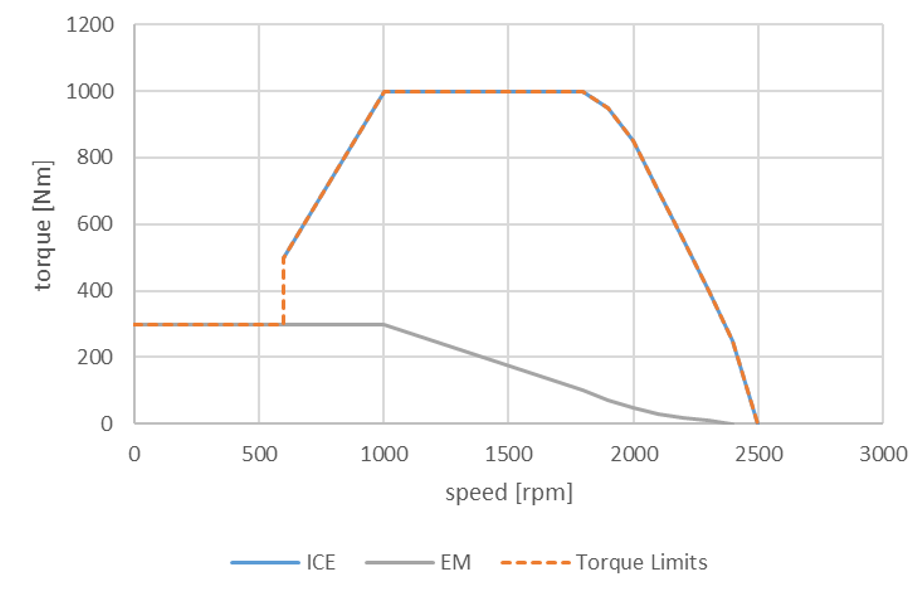
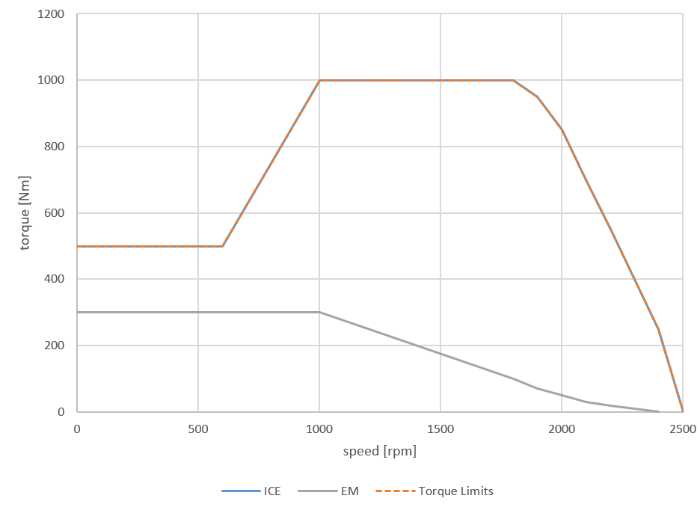
updating user manual, adding missing files

diff --git a/Documentation/User Manual/1-user-interface/F_VEH-Editor.md b/Documentation/User Manual/1-user-interface/F_VEH-Editor.md
@@ -166,9 +166,10 @@ However, it is possible that more than one electric machine is used at a certain
 
 The *Loss map EM ADC* can be used to consider the losses of a transmission step between drivetrain and electric machine or to consider losses of a summation gear. The loss map has the same format as for all other transmission components (see [Transmission Loss Map (.vtlm)](#transmission-loss-map-.vtlm)). For simplicity or if no such transmission step is used it is possible to enter the efficiency directly (i.e., "1" if no transmission step is used).
 
-In case of a P2.5 configuration (the electric motor is connected to an internal shaft of the tranmission) the transmission ratio for every single gear of the transmission has to be specified in the list to the right of the electric motor parameters.
+In case of a P2.5 configuration (the electric motor is connected to an internal shaft of the tranmission) the transmission ratio for every single gear of the transmission has to be specified in the list to the right of the electric motor parameters. The ratio is defeined as $n_\textrm{GBX,in} / n_\textrm{EM}$ in case of EM without additional ADC or $n_\textrm{GBX,in} / n_\textrm{ADC,out}$ in case of EM with additional ADC.
 
-For the electric energy storage multiple battery packs can be configured either in series or in parallel and the initial state of charge of the whole battery system can be defined.  For every entry of a battery pack the number of packs (count) in series and a stream identifier need to be specified. Battery packs on the same stream are connected in series (e.g., two different battery packs on stream number 1 are in series) while all streams are then connected in parallel (see [Battery Model](#foo) for details). This is only supported for batteries and **not** for SuperCaps.
+
+For the electric energy storage multiple battery packs can be configured either in series or in parallel and the initial state of charge of the whole battery system can be defined.  For every entry of a battery pack the number of packs (count) in series and a stream identifier need to be specified. Battery packs on the same stream are connected in series (e.g., two different battery packs on stream number 1 are in series) while all streams are then connected in parallel (see [Battery Model](#ress) for details). This is only supported for batteries and **not** for SuperCaps.
 
 **Double-click** an entry to edit.
 
@@ -185,20 +186,35 @@ In the REESS Dialog the battery file itself and how it is connected to the elect
 
 ![](pics/VehicleForm_TorqueLimits.png)
 
-On this tab different torque limits can be applied at the vehicle level. 
+On this tab different torque limits can be applied at the vehicle level. For details which limits are applicable and who the limits are applied in the simulation [see here](#torque-and-speed-limitations).
 
 First, the maximum torque of the ICE may be limited for certain gears (see [Engine Torque Limitations](#torque-and-speed-limitations)).
 In case that the gearbox' maximum torque is lower than the engine's maximum torque or to model certain features like Top-Torque (where in the highest gear more torque is available) it is possible to limit the engine's maximum torque depending on the engaged gear. 
 
 Next, the maximum available torque for the electric machine can be reduced at the vehicle level, both for propulsion and recuperation. The input file is the same as the maximum drive and maximum recuperation curve (see [Electric Motor Max Torque File](#electric-motor-max-torque-file-.vemp))
 
-Last, the overall propulsion of the vehicle (i.e., electric motor plus combustion engine) can be limited. The "Propulsion Torque Limit" curve limits the maximum effective torque at the gearbox input shaft over the input speed. This curve is added to the combustion engine's maximum torque curve (only positive values are allowed!). For details on the file format see [Vehicle Boosting Limits](#vehcle-boosing-limits-.vemp). The propulsion torque limit has to be provided from 0 rpm to the maximum speed of the combustion engine. In case of P3 or P4 configuration, the torque at the gearbox input shaft is calculated assuming that the electric motor does not contribute to propelling the vehicle, considering the increased losses in the transmission components inbetween. For P2.5 powertrain configurations no special calculations are necessary as this architecture is internally anyhow modelled as P2 architecture.
+Last, the overall propulsion of the vehicle (i.e., HEV Px, electric motor plus combustion engine) can be limited. The "Propulsion Torque Limit" curve limits the maximum effective torque at the gearbox input shaft over the input speed. This curve is added to the combustion engine's maximum torque curve (only positive values are allowed!). For details on the file format see [Vehicle Boosting Limits](#vehcle-boosing-limits-.vemp). The propulsion torque limit has to be provided from 0 rpm to the maximum speed of the combustion engine. In case of P3 or P4 configuration, the torque at the gearbox input shaft is calculated assuming that the electric motor does not contribute to propelling the vehicle, considering the increased losses in the transmission components inbetween. For P2.5 powertrain configurations no special calculations are necessary as this architecture is internally anyhow modelled as P2 architecture.
 
 ##Vehicle Editor -- ADAS Tab
 
 ![](pics/VehicleForm_ADAS.png)
 
 On the ADAS tab, the advanced driver assistant systems present in the vehicle can be selected.  See [ADAS - Engine Stop/Start](#advanced-driver-assistant-systems-engine-stopstart), [ADAS - EcoRoll](#advanced-driver-assistant-systems-eco-roll), and [ADAS - Predictive Cruise Control](#advanced-driver-assistant-systems-predictive-cruise-control)
+
+The following table describes which ADAS technology can be used and is supported for different powertrain architectures (X: supported, O: optional, -: not supported):
+
+| ADAS Technology \ Powertrain Architecture  | Conventional   | HEV   | PEV   |
+| ------------------------------------------ | -------------- | ----- | ----- |
+| Engine Stop/Start                          | X              | X     | -     |
+| EcoRoll Without Engine Stop                | X              | -     | -     |
+| EcoRoll with Engine Stop                   | X              | -     | -     |
+| Predictive Cruise Control                  | X              | X     | X     |
+| APT Gearbox EcoRoll Release Lockup Clutch  | O              | -     | -     |
+
+* Engine Stop/Start not allowed for PEV
+* EcoRoll for HEV always with ICE off
+* For PEV no clutch for disconnecting the EM present, thus no EcoRoll foreseen (very low drag of EM in any case)
+* Inputs for EcoRoll possible in GUI, but no effect in simulation
 
 
 ##Vehicle Editor -- PTO Tab

diff --git a/Documentation/User Manual/3-simulation-models/Electric_Motor.md b/Documentation/User Manual/3-simulation-models/Electric_Motor.md
@@ -8,7 +8,7 @@ The electric motor is modeled by basically 4 map files:
  - Drag curve (i.e., the motor is not energized) over motor speed
  - Continuous torque ($T_\textrm{cont}$)
  - Engine speed for continuous torqe ($n_\textrm{T,cont}$)
- - Overload torque ($T_\textrm{ovl})
+ - Overload torque ($T_\textrm{ovl}$)
  - Engine speed for overload torque  ($n_\textrm{T,ovl}$)
  - Maximum overload time ($t_\textrm{ovl}$)
 
@@ -63,7 +63,7 @@ $P_\textrm{el}(n_\textrm{em}, T_\textrm{em}) = \textrm{Delaunay}_\textrm{EM-Map}
 
 The electric machine can be overloaded for a certain period. In addition to the maximum drive and generation torque (which already is in overload condition) the mechanical power the electric machine can generate is required.
 
-The basic principal of the thermal de-rating is as follows: based on the continuous power and the angular velocity for the continuous power as well as the maximum overload time a thermal energy buffer is calculated. During the simulation the difference between the current losses in the electric machine and the losses at the continuous power operating point are integrated over time. If this value reaches the capacity of the thermal energy buffer the electric machine can only deliver the specified continuous power until the thermal energy buffer goes below a certain.
+The basic principal of the thermal de-rating is as follows: based on the continuous power and the angular velocity for the continuous power as well as the maximum overload time a thermal energy buffer is calculated. During the simulation the difference between the current losses in the electric machine and the losses at the continuous power operating point are integrated over time. If this value reaches the capacity of the thermal energy buffer the electric machine can only deliver the specified continuous power until the thermal energy buffer goes below a certain threshold.
 
 
 $E_\textrm{th,buf} = (P_\textrm{loss,ovl} - P_\textrm{loss,cont}) \cdot t_\textrm{ovl}$
@@ -79,5 +79,5 @@ $E_{\textrm{ovl,} i + 1} = E_{\textrm{ovl,} i} + (P_\textrm{loss, i} - P_\textrm
 $P_\textrm{loss, i} = T_\textrm{em, mech} \cdot n_\textrm{em} - P_\textrm{map, el}(T_\textrm{em, mech}, n_\textrm{em})$
 
 
-If $E_\textrm{ovl, i}$ reaches the overload capacity $E_\textrm{th,buf}$ the power of the electric machine is limited to the continuous power until $E_\textrm{ovl,i}$ goes below the overload capacity multiplied by a certain factor. Then the maximum torque is available again.
+If $E_\textrm{ovl, i}$ reaches the overload capacity $E_\textrm{th,buf}$ the power of the electric machine is limited to the continuous power until $E_\textrm{ovl,i}$ goes below the overload capacity multiplied by the thermal overload recovery factor. Then the maximum torque is available again.
 

diff --git a/Documentation/User Manual/1-user-interface/H1_HybridStrategyParams-Editor.md b/Documentation/User Manual/1-user-interface/H1_HybridStrategyParams-Editor.md
@@ -1,0 +1,50 @@
+##Hybrid Strategy Parameters Editor
+
+
+![](pics/HybridStrategyParams.png)
+
+###Description
+
+
+The [Hybrid Strategy Parameters File (.vhctl)](#hybrid-strategy-parameters-file-.vhctl) defines all parameters used by the [Hybrid Control Strategy](#hybrid-control-strategy) to evaluate the best option for splitting the demanded torque between electric motor and combustion engine.
+
+###Strategy Parameters
+
+The hybrid control strategy evaluates different allocations of torque to the electric motor and different gears and calculates the following cost function:
+
+$C = \sum_{i \in  \textrm{Fuels}}{FC_{i} \cdot NCV_{i} \cdot dt} + f_{\textrm{equiv}} \cdot (P_\textrm{Bat} \cdot dt + C_{\textrm{Pen1}}) \cdot f_{SoC} + C_{\textrm{Pen2}}$
+
+$f_\textrm{SoC} = 1 - \left(\frac{\textrm{SoC} - \textrm{TargetSoC}}{0.5 \cdot (\textrm{SoC}_\textrm{max} - \textrm{SoC}_{min}}  \right)^e + C_\textrm{SoC}$
+
+The parameters for the cost function can be defined in the hybrid strategy file.
+
+Evquivalence Factor Discharge
+:   $f_{\textrm{equiv}}$ in case the battery is discharged
+
+Evquivalence Factor Charge
+:   $f_{\textrm{equiv}}$ in case the battery is charged
+
+Min SoC
+:   $\textrm{SoC}_\textrm{min}$
+
+Max SoC
+:   $\textrm{SoC}_\textrm{max}$
+
+Target SoC
+:   $\textrm{TargetSoC}$
+
+Min ICE On Time
+:   In case the ICE was turned on, it cannot be turned of for this period of time
+
+Aux Buffer Time 
+:   In case electric auxiliaries are connected to the high-voltage system, reserve a certain amount of energy in the battery to supply the auxiliaries for this period of time.
+
+Aux Buffer Charge Time
+:   In case electric auxiliaries are connected to the high-voltage system and the reserved energy for the auxiliaries is used, re-charge the "auxiliaries buffer" in within this period of time.
+
+ICE Start penalty factor
+:   Penalty added to the cost function in case the ICE needs to be turned on
+
+Cost Factor SoC Exponent
+:   Exponent $e$ in the cost function
+

diff --git a/Documentation/User Manual/3-simulation-models/ADAS_EcoRoll.md b/Documentation/User Manual/3-simulation-models/ADAS_EcoRoll.md
@@ -184,8 +184,9 @@ If the vehicle enters a potential PCC section, the following calculations are pe
 1. Current vehicle position: $x$
 2. Position in the cycle where the PCC event shall be finished: $x_{end} = min(x + d_{preview}, x_{end, max})$
 3. Estimation of coasting resistance force:  
-$F_{coast}(x) = \frac{P_{roll}(x) + P_{aero}(x, v_{target}) + P_{ice, drag}}{v_{target}}$  
-$P_{ice, drag}$ is set to 0 in case the vehicle is equipped with eco-roll
+$F_{coast}(x) = \frac{P_{roll}(x) + P_{aero}(x, v_{target}) + P_{ice, drag} + P_{em, drag}}{v_{target}}$  
+$P_{ice, drag}$ is set to 0 in case the vehicle is equipped with eco-roll and pure electric vehicles.
+$P_{em,drag}$ is set to 0 for conventional vehicles.
 4. Energy demand/gain for coasting from the vehicle's current position to the point with the minimum velocity $x_{v_{low}}$:  
 $E_{coast, v_{low}} = F_{coast} \cdot (x_{v_{low}} - x)$
 5. Energy demand/gain for coasting from the vehicle's current position to the end of the PCC event $x_{end}$:  
@@ -197,9 +198,13 @@ $E(x_{end}) = m \cdot g \cdot h(x_{end}) + \frac{m \cdot v_{target}(x_{end})^2}{
 
 **PCC State Diagram**
 
-The following state diagram depicts when a PCC event is activated during the simulation.
+The following state diagram depicts when a PCC event is activated during the simulation for conventional vehicles.
 
-![](pics/PredictiveCruiseControlActivation.svg)
+![](pics/PredictiveCruiseControl_Conventional.png)
+
+The following state diagram depicts the activation of a PCC event during the simulation for xEV vehicles.
+
+![](pics/PredictiveCruiseControl_xEV.png)
 
 The fuel consumption of vehicles equipped with PCC option 1 & 2 and eco-roll with engine stop/start will be corrected for engine stop/start as described in [engine stop/start correction](#engine-fuel-consumption-correction).
 

diff --git a/Documentation/User Manual/3-simulation-models/Engine_Speed_Torque_limitations.md b/Documentation/User Manual/3-simulation-models/Engine_Speed_Torque_limitations.md
@@ -51,7 +51,9 @@ The electric motor's maximum drive and maximum recuperation curve can be overrid
 
 For hybrid electric vehicles the electric machine may provide additional torque to the powertrain and thus cause higher accelerations than a conventional vehicle. To limit such boosting by the electric motor. 
 
-The input is the additional torque the electric motor is allowed to boost in addition to the ICE over ICE speed. Note: this boosting torque has to be provided from 0 rpm up to the max. ICE speed. The angular speed refers to the gearbox input shaft.
+The input is the additional torque the electric motor is allowed to boost in addition to the ICE over ICE speed.
+
+*Note:* this boosting torque has to be provided from 0 rpm up to the max. ICE speed. The angular speed refers to the gearbox input shaft.
 
 
 ####Example 1: No boosting
@@ -64,13 +66,11 @@ If the electric motor shall not be allowed to provide additional torque beyond t
 
 ~~~
 n [rpm] , T_drive [Nm]
-0       , 300
-599     , 300
-600     , 0
+0       , 0
 2500    , 0
 ~~~
 
-For speeds below idle speed the propulsion torque limit is set to the electric motor's maximum torque so that the vehicle can drive off without the combustion engine. 
+For speeds below idle speed the full-load torque available from the ICE equals the ICE full-load torque at engine idling speed due to the modeling of the clutch behavior during vehicle starts.
 
 ####Example 2: 
 
@@ -80,9 +80,7 @@ In this example the electric motor is allowed to provide torque in addition to t
 
 ~~~
 n [rpm] , T_drive [Nm]
-0       , 300
-599     , 300
-600     , 100
+0       , 100
 2500    , 100
 ~~~
 

diff --git a/Documentation/User Manual/3-simulation-models/Electric_Storage.md b/Documentation/User Manual/3-simulation-models/Electric_Storage.md
@@ -23,7 +23,7 @@ $I_\textrm{disch,max} = \frac{U(\textrm{SoC})}{4 * R_i(\textrm{SoC})}$
 
 ####Time-dependent Internal Resistance
 
-If the internal resistance shall is provided for different pulse durations, the actual internal resistance is interpolated between the provided resistance values with the current pulse duration. No extrapolation is applied. For pulses below Ri_2, Ri_2 is applied, for pulse durations longer then Ri_20 (or Ri_120 if provided) this value is used. The pulse duration is reset every time the current changes its sign.
+If the internal resistance is provided for different pulse durations, the actual internal resistance is interpolated between the provided resistance values with the current pulse duration. No extrapolation is applied. For pulses below Ri_2, Ri_2 is applied, for pulse durations longer then Ri_20 (or Ri_120 if provided) this value is used. The pulse duration is reset every time the current changes its sign.
 
 ###Modular Battery System
 

diff --git a/Documentation/User Manual/5-input-and-output-files/VHCTL.md b/Documentation/User Manual/5-input-and-output-files/VHCTL.md
@@ -1,0 +1,28 @@
+##Hybrid Strategy Parameters File (.vhctl)
+
+File for the definition of the hybrid control strategy parameters in VECTO. Can be created with the [Hybrid Strategy Parameters Editor](#hybrid-strategy-parameters-editor).
+
+- File format is [JSON](#json).
+- Filetype ending is ".vhctl"
+
+**Example:**
+
+~~~
+{
+  "Header": {
+    "CreatedBy": "",
+    "Date": "2020-09-07T15:28:08.3781385Z",
+    "AppVersion": "3",
+    "FileVersion": 1
+  },
+  "Body": {
+    "EquivalenceFactor": 2.0,
+    "MinSoC": 20.0,
+    "MaxSoC": 80.0,
+    "TargetSoC": 50.0,
+    "AuxBufferTime": 5.0,
+    "AuxBufferChgTime": 5.0,
+    "MinICEOnTime": 10.0
+  }
+}
+~~~

diff --git a/Documentation/User Manual/3-simulation-models/supported_powertrain_architectures.md b/Documentation/User Manual/3-simulation-models/supported_powertrain_architectures.md
@@ -1,0 +1,22 @@
+##Supported Powertrain Architectures
+
+The following xEV architectures are currently supported in VECTO. All architectures can be used together with the bus auxiliaries model in engineering mode.
+
+###Parallel Hybrid Electric Vehicle Architectures
+
+* P1 + AMT
+* P1 + APT-S/P
+* P2 + AMT
+* P2.5 + AMT
+* P2.5 + APT-S/P
+* P3 + AMT
+* P3 + APT-S/P
+* P4 + AMT
+* P4 + APT-S/P
+
+###Pure Electric Vehicle Architectures
+
+* E2 + AMT
+* E2 + APT-N
+* E3
+* E4

diff --git a/Documentation/User Manual/3-simulation-models/simulation-models.md b/Documentation/User Manual/3-simulation-models/simulation-models.md
@@ -2,6 +2,7 @@
 
 In this chapter the used component models for the simulation are described.
 
+* [Supported Powertrain Architectures](#supported-powertrain-architectures)
 * [Powertrain and Components Structure](#powertrain-and-components-structure)
 * [Driver: Acceleration Limiting](#driver-acceleration-limiting)
 * [Driver: Look-Ahead Coasting](#driver-look-ahead-coasting)

diff --git a/Documentation/User Manual/5-input-and-output-files/VBATx.md b/Documentation/User Manual/5-input-and-output-files/VBATx.md
@@ -46,7 +46,7 @@ SoC , Ri
 ~~~
 SoC , Ri-2 , Ri-10 , Ri-20
 0   , 0.04 , 0.06  , 0.08
-0   , 0.04 , 0.06  , 0.08
+100 , 0.04 , 0.06  , 0.08
 ~~~
 
 ##Battery Max Current Map (.vimax)
